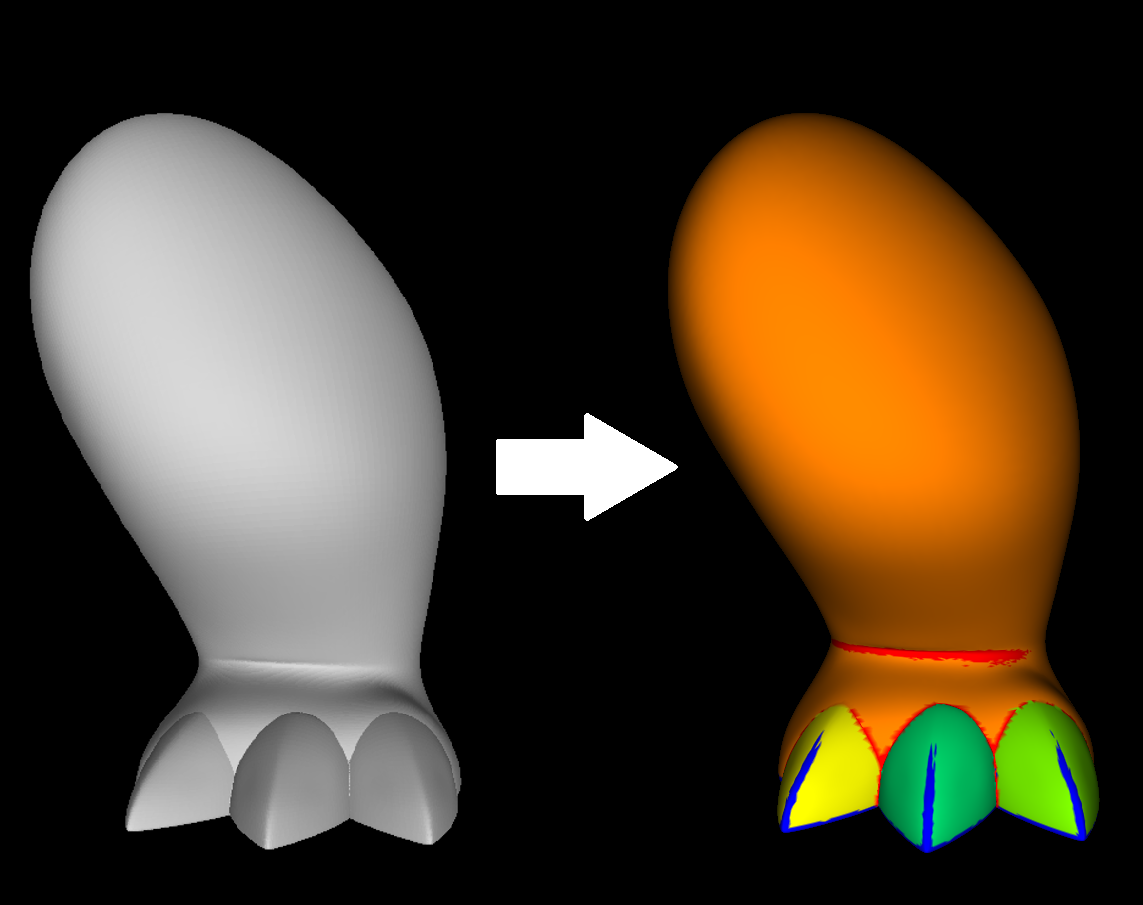
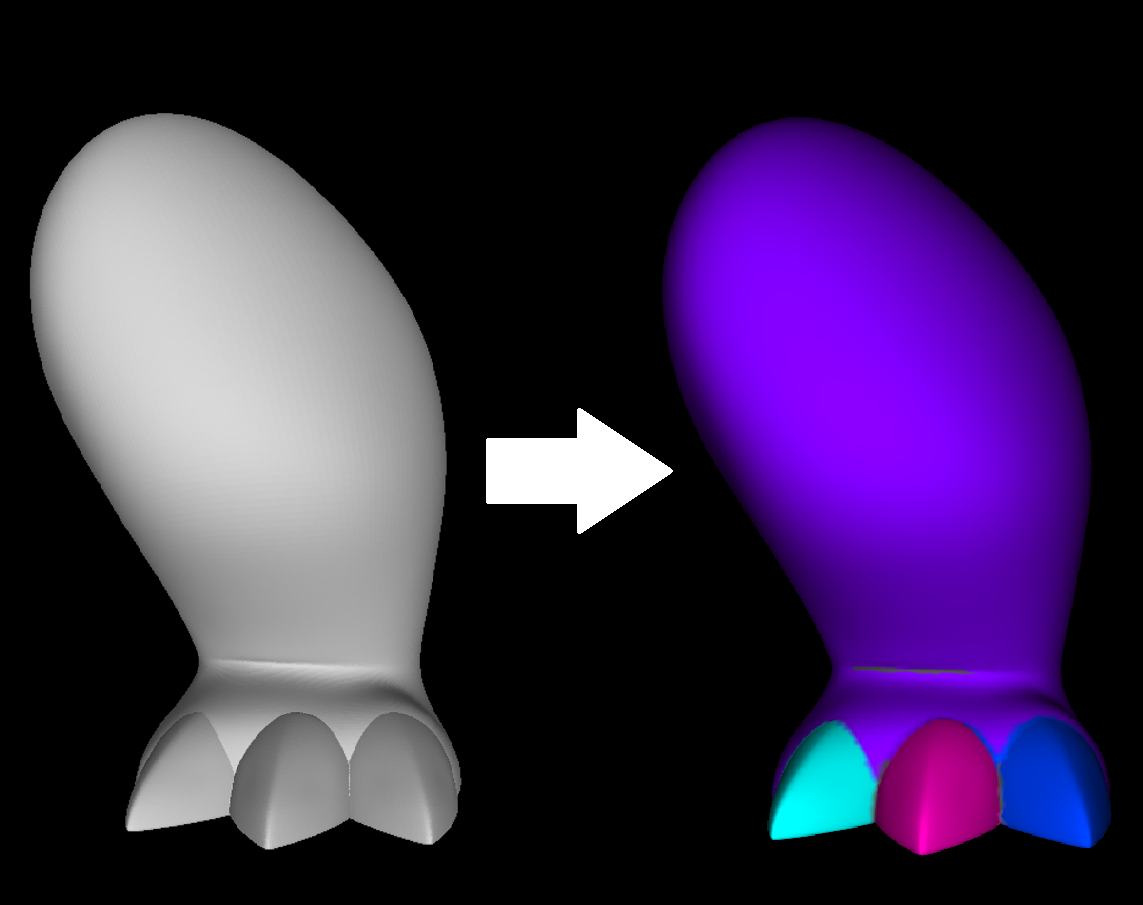
updated readme screenshot

diff --git a/src/brocseg.cpp b/src/brocseg.cpp
@@ -217,14 +217,16 @@ glm::vec3 getNextColor() {
   ++colorIdx;
   std::vector<float> hue = {0.0f,  180.0f, 270.0f, 45.0f, 225.0f, 315.0f,
                             15.0f, 195.0f, 285.0f, 30.0f, 210.0f, 300.0f};
-  std::vector<glm::vec3> colors(hue.size());
-  for (size_t i = 0; i < colors.size(); ++i) {
-    colors[i] = math::rgbFromHsv(hue[i] / 360.0f, 1.0f, 1.0f);
-  }
+  std::vector<glm::vec3> colors;
+  colors.reserve(hue.size());
+  auto rgbFromHue = [](const float& h) {
+    return math::rgbFromHsv(h / 360.0f, 1.0f, 1.0f);
+  };
+  std::transform(hue.begin(), hue.end(), std::back_inserter(colors), rgbFromHue);
   if (colorIdx >= colors.size()) {
     colorIdx = 0;
   }
-  return colors[colorIdx];
+  return colors.at(colorIdx);
 }
 
 void handleMouseClickLeft(const glm::ivec2 &mouse, const broc::Camera &camera, Scene &scene,
